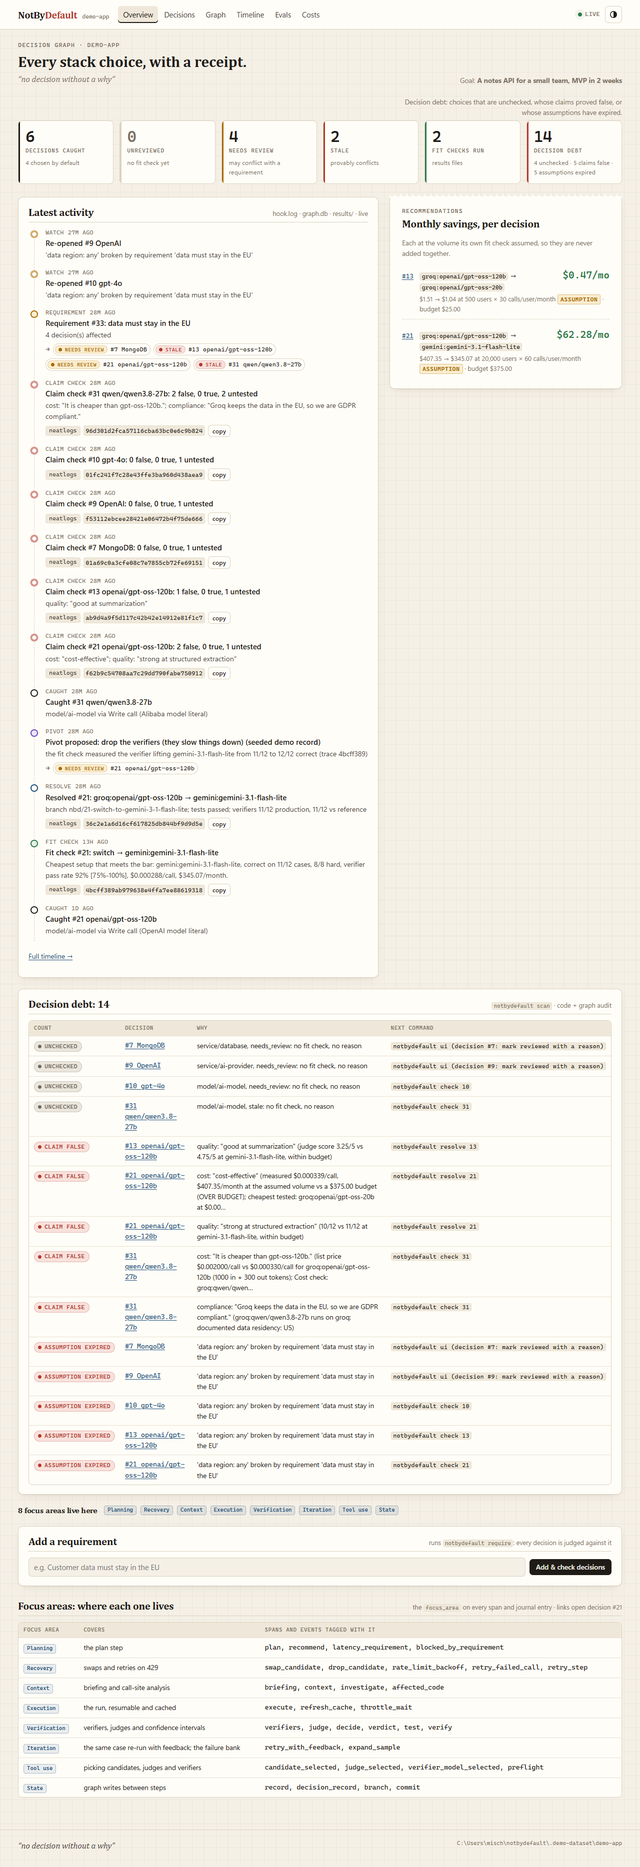
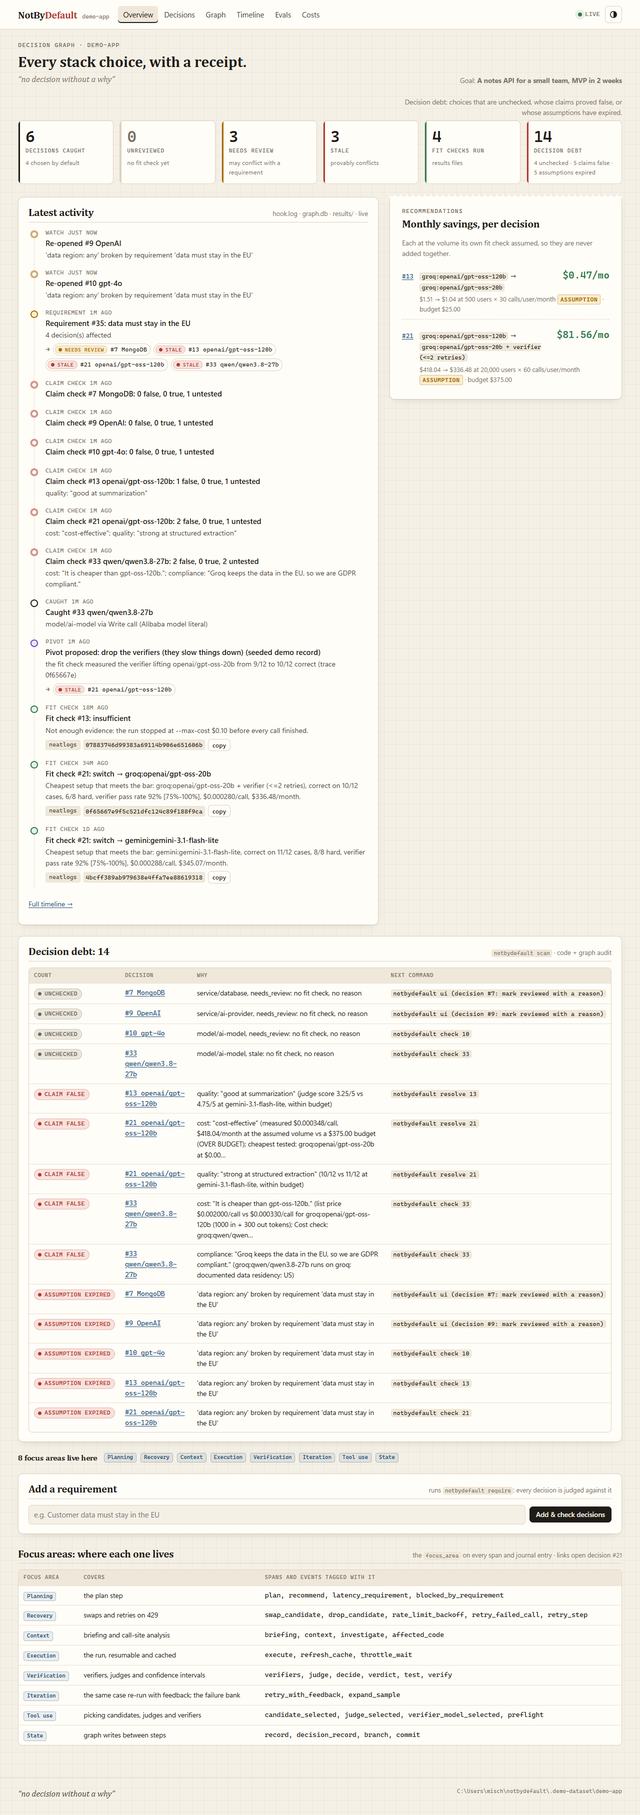
switch to the live-run numbers: #21 recommends gpt-oss-20b + verifier, $81.56/mo saved
The live `check 21` (trace 0f65667e9f5c521dfc124c89f188f9ca; 71 real requests across a Gemini
quota reset, $0.0461 at list price, free tiers) changed the verdict: today's gpt-oss-120b is
10/12 at $418.04/mo over the $375 budget; the cheapest setup meeting the bar is gpt-oss-20b +
verifier, 10/12 at $336.48/mo; best quality within budget is gemini-3.1-flash-lite, 11/12 at
$345.07/mo.

- README: example uses the live numbers and trace; resolve recommends the switch but stops (a
  verifier loop is not automated yet); a caveat on cost vs correctness between the two in-budget
  setups; under the EU requirement #21 goes stale (Groq documents US only) and MongoDB needs
  review; business case at $82/mo saved and "the same accuracy" (10/12), not "improving".
- business: costs.csv/costs.md regenerated from the live results (export-costs); plan.md's
  Starter line at $82/mo with an update note.
- ARCHITECTURE: a "Measured" subsection with the live run, and the demo dataset description
  matches it.
- Demo dataset: the seeded pivot's verifier evidence is read from #21's results file instead
  of hard-coded; the docstring describes the resolve stop and the new stale/needs-review split.
  Rebuilt offline; overview, #21 receipt and fit-check screenshots in light and dark.
- docs/demo.md and #21's decision record: the live run's trace and cost lines.
- tests: the net-saving test uses #21's live values.

Entire-Checkpoint: 01M4QJK1VX1PFQCFVNBJ0PV8YK

diff --git a/scripts/demo_dataset.py b/scripts/demo_dataset.py
@@ -7,15 +7,19 @@ touched), made a git repo on main, and then:
   0. watch      record each decision's assumptions (baseline)
   1. reasons    a SCRIPTED agent reason on #13, #21, MongoDB, OpenAI and gpt-4o (stored as
                 agent_reason, its source saying so: demo-app's own sessions recorded none)
-  2. resolve 21 dry run, then --apply on branch nbd/21-... (commit answered "yes", on the copy)
+  2. resolve 21 dry run, then --apply on branch nbd/21-... (commit answered "yes", on the copy).
+                When the verdict recommends a "+ verifier" setup, resolve stops at its
+                recommendation (adding a verifier loop to the code is not automated yet) and both
+                runs record that; #21 then stays on its current model
   3. pivot      the user types PIVOT_PROMPT. The real Pivot Check runs first; when it records
                 nothing (its prefilter or confirm call says no, or --offline has no cached
                 answer), ONE pivot is written from SEEDED_PIVOT, marked source=seeded
      + an agent turn: the PreToolUse hook catches a new model choice, its reason read from a
                 scripted transcript (scripts/demo_transcript.jsonl)
   4. claims     on #21 first, then the other reasoned decisions and the agent turn's
-  5. require    REQUIREMENT: Groq documents US only -> #13 stale; #21 now runs on Gemini, which
-                documents no region -> needs review
+  5. require    REQUIREMENT: Groq documents US only -> every decision still on Groq goes stale
+                (#13, and #21 unless resolve moved it); a decision whose region depends on the
+                deployment (MongoDB) -> needs review
   6. watch      re-evaluate the assumptions ('data region: any' broken on #21)
   7. scan       decision debt
   8. shots      regenerate docs/screenshots (light + dark) from the dataset; --no-shots skips it
@@ -268,6 +272,29 @@ def resolve(p: Path, did: int, client, apply: bool) -> None:
         print(f"[trace] {client.step}: {r.tracer.trace_id}")
 
 
+def verifier_lift(p: Path, decision: dict | None) -> str:
+    """What the verifier adds, from the decision's own results file: the recommended setup when
+    it relies on the verifier, else the model the verifier lifts most. "" when nothing to cite."""
+    rel = (decision or {}).get("data", {}).get("results")
+    if not rel or not (p / rel).is_file():
+        return ""
+    res = json.loads((p / rel).read_text(encoding="utf-8"))
+    st = {(s["model"], s["setup"]): s for s in res["stats"].values() if s.get("n_ref")}
+
+    def correct(s):
+        return round(s["correct_rate"] * s["n_ref"])
+    lifts = {m: correct(st[(m, "verified")]) - correct(st[(m, "alone")])
+             for m, setup in st if setup == "alone" and (m, "verified") in st}
+    model, setup = res["verdict"]["recommended"]
+    if setup != "verified":
+        model = max(lifts, key=lifts.get, default=None)
+    if model not in lifts or lifts[model] <= 0:
+        return ""
+    a, v = st[(model, "alone")], st[(model, "verified")]
+    return (f"{model.split(':', 1)[-1]} from {correct(a)}/{a['n_ref']} to {correct(v)}/{v['n_ref']} "
+            f"correct (trace {(res.get('trace_id') or '-')[:8]})")
+
+
 def pivot(p: Path, client) -> None:
     """The real Pivot Check on PIVOT_PROMPT; one seeded pivot when it records nothing."""
     from notbydefault.fit.tracing import make_tracer
@@ -296,10 +323,10 @@ def pivot(p: Path, client) -> None:
     with Graph.for_project(p) as g:
         verifiers = next((n for n in g.nodes("evidence")
                           if n["label"] == "Verifiers for decision #21"), None)
+        lift = verifier_lift(p, g.get_node(21))
         conflicts = [{"id": verifiers["id"], "type": "evidence", "label": verifiers["label"],
-                      "why": "the fit check measured the verifier lifting "
-                             "gemini-3.1-flash-lite from 11/12 to 12/12 correct (trace 4bcff389)"}
-                     ] if verifiers else []
+                      "why": f"the fit check measured the verifier lifting {lift}"}
+                     ] if verifiers and lift else []
         imp = {"change": SEEDED_PIVOT["change"], "conflicts": conflicts,
                "decisions": [{"id": 21}]}
         pid = record(g, PIVOT_PROMPT, imp, "demo-pivot", {"model": None})

diff --git a/tests/test_fit_units.py b/tests/test_fit_units.py
@@ -494,9 +494,9 @@ def test_cache_tolerates_concurrent_writes_of_the_same_key(tmp_path):
 
 def test_net_saving_line_from_the_unrounded_numbers():
     from notbydefault.fit.report import net_saving_line
-    # decision #21's demo fit check, as stored in its results file
-    assert net_saving_line(407.35499999999996, 345.075, 0.0375157) == (
-        "Net saving: $407.35/mo → $345.07/mo = $62.28/mo saved. Check cost once at "
-        "$0.0375 (list). First-month ROI: $62.24.")
+    # decision #21's live fit check (trace 0f65667e), as stored in its results file
+    assert net_saving_line(418.035, 336.47999999999996, 0.0220937) == (
+        "Net saving: $418.04/mo → $336.48/mo = $81.56/mo saved. Check cost once at "
+        "$0.0221 (list). First-month ROI: $81.53.")
     assert net_saving_line(300.0, 345.07, 0.04) == ""        # recommended costs more: no saving
     assert net_saving_line(None, 345.07, 0.04) == ""

diff --git a/demo-app/decisions/0002-ai-model-openai-gpt-oss-120b.md b/demo-app/decisions/0002-ai-model-openai-gpt-oss-120b.md
@@ -1,30 +1,34 @@
 # 0002. AI model for: Extracts structured action items—including task description, owner, resolved due date, and priority—from meeting notes.
 
-- Date: 2026-10-11
-- Status: Change recommended: gemini:gemini-3.1-flash-lite
+- Date: 2026-10-12
+- Status: Change recommended: groq:openai/gpt-oss-20b + verifier (<=2 retries)
 - Run on free tier; costs are list-price estimates.
 - Decision graph node: #21 (`openai/gpt-oss-120b` -> `groq:openai/gpt-oss-120b`)
 
 ## Context
 
-Decision #21 uses openai/gpt-oss-120b (groq:openai/gpt-oss-120b) to extracts structured action items—including task description, owner, resolved due date, and priority—from meeting notes. We ran 12 cases (12 hand-written, 6 of them re-run first from the failure bank) through 3 models, each alone and with a verifier, scored every answer against hand-written reference answers, and had 2 judge(s) from different families score them blind. Cheapest setup that meets the bar: gemini:gemini-3.1-flash-lite, correct on 11/12 cases, 8/8 hard, verifier pass rate 92% [75%-100%], $0.000288/call, $345.07/month. Best quality within the budget: gemini:gemini-3.1-flash-lite, correct on 11/12 cases, 8/8 hard, item F1 0.98, $0.000288/call, $345.07/month. At the assumed volume, today's setup costs about $407.35/month vs $345.07 for gemini:gemini-3.1-flash-lite (budget $375.00).
+Decision #21 uses openai/gpt-oss-120b (groq:openai/gpt-oss-120b) to extract structured action items—including task description, owner, resolved due date, and priority—from meeting notes. We ran 12 cases (12 hand-written, 7 of them re-run first from the failure bank) through 3 models, each alone and with a verifier, scored every answer against hand-written reference answers, and had 2 judge(s) from different families score them blind. Cheapest setup that meets the bar: groq:openai/gpt-oss-20b + verifier (<=2 retries), correct on 10/12 cases, 6/8 hard, verifier pass rate 92% [75%-100%], $0.000280/call, $336.48/month. Best quality within the budget: gemini:gemini-3.1-flash-lite, correct on 11/12 cases, 8/8 hard, item F1 0.98, $0.000288/call, $345.07/month. At the assumed volume, today's setup costs about $418.04/month vs $336.48 for groq:openai/gpt-oss-20b + verifier (<=2 retries) (budget $375.00).
 
 ## Setups tested
 
+Multi-candidate workload evaluation on your own data. Shared benchmarks are a prior, not proof.
+
 | setup | correct (95% CI) | hard | item F1 | verifier pass | judge gemini-3.8-flash | judge qwen3.8-27b | latency | cost/call incl. retries | monthly | fits budget? |
 |---|---|---|---|---|---|---|---|---|---|---|
-| groq:openai/gpt-oss-120b (current) | 10/12 [58%-100%] | 6/8 | 0.94 | 92% | 4.58 | 4.58 | 1.5s | $0.00034 | $407.35 | NO |
-| groq:openai/gpt-oss-120b + verifier (<=2 retries) | 11/12 [75%-100%] | 7/8 | 0.97 | 100% | 4.75 | 4.67 | 1.7s | $0.00038 (1.08 tries) | $458.71 | NO |
-| groq:openai/gpt-oss-20b | 7/12 [33%-83%] | 3/8 | 0.76 | 58% | 3.83 | 3.92 | 1.3s | $0.00019 | $225.13 | yes |
-| groq:openai/gpt-oss-20b + verifier (<=2 retries) | 10/12 [58%-100%] | 6/8 | 0.88 | 92% | 4.25 | 4.42 | 2.0s | $0.00032 (1.50 tries) | $385.37 | NO |
-| gemini:gemini-3.1-flash-lite | 11/12 [75%-100%] | 8/8 | 0.98 | 92% | 4.92 | 4.42 | 5.7s | $0.00029 | $345.07 | yes |
-| gemini:gemini-3.1-flash-lite + verifier (<=2 retries) | 12/12 [100%-100%] | 8/8 | 1.00 | 100% | 5.00 | 4.50 | 5.8s | $0.00033 (1.08 tries) | $391.43 | NO |
+| groq:openai/gpt-oss-120b (current) | 10/12 [58%-100%] | 6/8 | 0.94 | 92% | 4.83 | 4.83 | 1.5s | $0.00035 | $418.04 | NO |
+| groq:openai/gpt-oss-120b + verifier (<=2 retries) | 11/12 [75%-100%] | 7/8 | 0.97 | 100% | 4.92 | 4.92 | 1.6s | $0.00038 (1.08 tries) | $451.28 | NO |
+| groq:openai/gpt-oss-20b | 9/12 [50%-100%] | 5/8 | 0.79 | 75% | 4.00 | 4.08 | 1.1s | $0.00020 | $237.37 | yes |
+| groq:openai/gpt-oss-20b + verifier (<=2 retries) | 10/12 [58%-100%] | 6/8 | 0.88 | 92% | 4.25 | 4.33 | 1.5s | $0.00028 (1.33 tries) | $336.48 | yes |
+| gemini:gemini-3.1-flash-lite | 11/12 [75%-100%] | 8/8 | 0.98 | 92% | 4.92 | 4.83 | 13.8s | $0.00029 | $345.07 | yes |
+| gemini:gemini-3.1-flash-lite + verifier (<=2 retries) | 12/12 [100%-100%] | 8/8 | 1.00 | 100% | 5.00 | 4.92 | 15.0s | $0.00033 (1.08 tries) | $391.43 | NO |
 
 ## Verdict
 
-Cheapest setup that meets the bar: gemini:gemini-3.1-flash-lite, correct on 11/12 cases, 8/8 hard, verifier pass rate 92% [75%-100%], $0.000288/call, $345.07/month. Best quality within the budget: gemini:gemini-3.1-flash-lite, correct on 11/12 cases, 8/8 hard, item F1 0.98, $0.000288/call, $345.07/month.
+Cheapest setup that meets the bar: groq:openai/gpt-oss-20b + verifier (<=2 retries), correct on 10/12 cases, 6/8 hard, verifier pass rate 92% [75%-100%], $0.000280/call, $336.48/month. Best quality within the budget: gemini:gemini-3.1-flash-lite, correct on 11/12 cases, 8/8 hard, item F1 0.98, $0.000288/call, $345.07/month.
 
-1. Cheapest setup that meets the bar: `gemini:gemini-3.1-flash-lite`
+Net saving: $418.04/mo → $336.48/mo = $81.56/mo saved. Check cost once at $0.0221 (list). First-month ROI: $81.53.
+
+1. Cheapest setup that meets the bar: `groq:openai/gpt-oss-20b + verifier (<=2 retries)`
 2. Best quality within the budget: `gemini:gemini-3.1-flash-lite`
 
 Bar: correct on at least 9/12 cases (today's groq:openai/gpt-oss-120b: 10/12, one case of slack) with a verifier pass rate at most one case lower.
@@ -36,13 +40,11 @@ groq:openai/gpt-oss-120b: wrong on 2/12 (c03-several-owners, c07-mixed-language)
     c03-several-owners [hard]: Run the user interviews and write the summary: due None (expected '2026-10-21')
     c07-mixed-language [hard]: Revisar los contratos con legal: due '2026-10-19' (expected '2026-10-20')
     + verifier: retried 1 case(s) (c07-mixed-language); rescued 1 (c07-mixed-language); 1 wrong answer(s) passed every production check (c03-several-owners)
-groq:openai/gpt-oss-20b: wrong on 5/12 (c02-relative-dates, c03-several-owners, c04-cancelled-later, c06-long-notes, c09-date-changed-later)
-    c02-relative-dates [hard]: Review the security questionnaire: due '2026-10-15' (expected '2026-10-16') (+1 more)
-    c03-several-owners [hard]: Run the user interviews and write the summary: due '2026-10-19' (expected '2026-10-21')
+groq:openai/gpt-oss-20b: wrong on 3/12 (c02-relative-dates, c04-cancelled-later, c06-long-notes)
+    c02-relative-dates [hard]: output is not valid JSON with an action_items list
     c04-cancelled-later [hard]: Prepare the offsite agenda: due '2026-10-10' (expected '2026-10-12')
     c06-long-notes [hard]: output is not valid JSON with an action_items list
-    c09-date-changed-later [hard]: Send the vendor comparison: due '2026-10-24' (expected '2026-10-26')
-    + verifier: retried 5 case(s) (c02-relative-dates, c03-several-owners, c04-cancelled-later, c06-long-notes, c09-date-changed-later); rescued 3 (c03-several-owners, c06-long-notes, c09-date-changed-later); 0 wrong answer(s) passed every production check
+    + verifier: retried 3 case(s) (c02-relative-dates, c04-cancelled-later, c06-long-notes); rescued 1 (c06-long-notes); 0 wrong answer(s) passed every production check
 gemini:gemini-3.1-flash-lite: wrong on 1/12 (c10-priority-cues)
     c10-priority-cues: Patch the auth bypass: due '2026-10-21' (expected None)
     + verifier: retried 1 case(s) (c10-priority-cues); rescued 1 (c10-priority-cues); 0 wrong answer(s) passed every production check
@@ -50,9 +52,8 @@ gemini:gemini-3.1-flash-lite: wrong on 1/12 (c10-priority-cues)
 
 ## Rejected alternatives
 
-- `groq:openai/gpt-oss-120b + verifier (<=2 retries)`: over budget: $458.71/month vs $375.00
-- `groq:openai/gpt-oss-20b`: below the bar: correct on 7/12 cases, 3/8 hard vs 10/12 for groq:openai/gpt-oss-120b
-- `groq:openai/gpt-oss-20b + verifier (<=2 retries)`: over budget: $385.37/month vs $375.00
+- `groq:openai/gpt-oss-120b + verifier (<=2 retries)`: over budget: $451.28/month vs $375.00
+- `groq:openai/gpt-oss-20b`: below the bar: correct on 9/12 cases, 5/8 hard vs 10/12 for groq:openai/gpt-oss-120b
 - `gemini:gemini-3.1-flash-lite + verifier (<=2 retries)`: over budget: $391.43/month vs $375.00
 
 ## Caveats
@@ -65,11 +66,11 @@ gemini:gemini-3.1-flash-lite: wrong on 1/12 (c10-priority-cues)
 
 - Monthly cost = 20,000 expected users (from the graph) x 60 calls per user per month (ASSUMPTION) x measured average cost per call; monthly budget $375.00 (from the graph).
 - Run on free tier; costs are list-price estimates. Prices: groq: https://console.groq.com/docs/models (fetched 2026-10-10); gemini: https://ai.google.dev/gemini-api/docs/pricing (fetched 2026-10-10).
-- Test inputs: 12 hand-written, 6 of them re-run first from the failure bank (12 hand-written with reference answers, 8 marked hard); failure-bank cases always run first.
+- Test inputs: 12 hand-written, 7 of them re-run first from the failure bank (12 hand-written with reference answers, 8 marked hard); failure-bank cases always run first.
 - Verifier pass = all checks in .notbydefault/verifiers/21.py pass (json_matches_schema, owners_in_input, dates_in_input, dates_normalized, no_missing_items, no_extra_items). Verified setups retry up to 2x, feeding back only the failures production could see (reference checks are never used as hints); their cost/latency include those retries and any verifier calls.
-- Two blind judges from different families, gemini:gemini-3.8-flash and groq:qwen/qwen3.8-27b: on the same 36 outputs they gave identical scores 69% of the time and were within 1 point 97% of the time (mean gap 0.36; mean gemini-3.8-flash 4.19 vs qwen3.8-27b 4.17). Correctness against the references decides; judge scores only break ties.
+- Two blind judges from different families, gemini:gemini-3.8-flash and groq:qwen/qwen3.8-27b: on the same 36 outputs they gave identical scores 92% of the time and were within 1 point 100% of the time (mean gap 0.08; mean gemini-3.8-flash 4.39 vs qwen3.8-27b 4.42). Correctness against the references decides; judge scores only break ties.
 - Verifier trust: not measured yet - run `python -m notbydefault label 21` to hand-label 10 outputs.
-- Raw results: `.notbydefault/results/21-20261011T070521Z.json`
+- Raw results: `.notbydefault/results/21-20261012T070725Z.json`
 
 <!-- notbydefault:summary:begin (generated; edits inside are overwritten) -->
 
@@ -77,26 +78,28 @@ gemini:gemini-3.1-flash-lite: wrong on 1/12 (c10-priority-cues)
 
 - Decision graph node: #21 (model/ai-model: `openai/gpt-oss-120b`)
 - Status: Reviewed
-- Recommended: `gemini:gemini-3.1-flash-lite`
+- Recommended: `groq:openai/gpt-oss-20b + verifier (<=2 retries)`
 - Detected in agent session: `manual-action-items`
 
 ### Why
 
-Cheapest setup that meets the bar: gemini:gemini-3.1-flash-lite, correct on 11/12 cases, 8/8 hard, verifier pass rate 92% [75%-100%], $0.000288/call, $345.07/month. Best quality within the budget: gemini:gemini-3.1-flash-lite, correct on 11/12 cases, 8/8 hard, item F1 0.98, $0.000288/call, $345.07/month.
+Cheapest setup that meets the bar: groq:openai/gpt-oss-20b + verifier (<=2 retries), correct on 10/12 cases, 6/8 hard, verifier pass rate 92% [75%-100%], $0.000280/call, $336.48/month. Best quality within the budget: gemini:gemini-3.1-flash-lite, correct on 11/12 cases, 8/8 hard, item F1 0.98, $0.000288/call, $345.07/month.
 
 ### Evidence
 
 - #26 Fit test results 2026-10-10 (12 inputs): `.notbydefault/results/21-20261011T070521Z.json`
 - #27 Provider list prices fetched 2026-10-10: `groq: https://console.groq.com/docs/models (fetched 2026-10-10); gemini: https://ai.google.dev/gemini-api/docs/pricing (fetched 2026-10-10)`
 - #28 Verifiers for decision #21: `.notbydefault/verifiers/21.py`
-- Raw fit-test results: `.notbydefault/results/21-20261011T070521Z.json`
+- #30 Fit test results 2026-10-10 (12 inputs): `.notbydefault/results/21-20261012T070725Z.json`
+- #31 Provider list prices fetched 2026-10-10: `groq: https://console.groq.com/docs/models (fetched 2026-10-10); gemini: https://ai.google.dev/gemini-api/docs/pricing (fetched 2026-10-10)`
+- Raw fit-test results: `.notbydefault/results/21-20261012T070725Z.json`
 
 ### Rejected alternatives
 
-- `groq:openai/gpt-oss-120b + verifier (<=2 retries)`: over budget: $458.71/month vs $375.00
+- `groq:openai/gpt-oss-120b + verifier (<=2 retries)`: over budget: $451.28/month vs $375.00
 - `groq:openai/gpt-oss-20b + verifier (<=2 retries)`: over budget: $385.37/month vs $375.00
 - `gemini:gemini-3.1-flash-lite + verifier (<=2 retries)`: over budget: $391.43/month vs $375.00
-- `groq:openai/gpt-oss-20b`: below the bar: correct on 7/12 cases, 3/8 hard vs 10/12 for groq:openai/gpt-oss-120b
+- `groq:openai/gpt-oss-20b`: below the bar: correct on 9/12 cases, 5/8 hard vs 10/12 for groq:openai/gpt-oss-120b
 
 ### Caveats
 
@@ -113,5 +116,9 @@ Cheapest setup that meets the bar: gemini:gemini-3.1-flash-lite, correct on 11/1
 ### Status history
 
 - 2026-10-11T07:11:44+00:00: reviewed: fit check verdict: switch (Cheapest setup that meets the bar: gemini:gemini-3.1-flash-lite, correct on 11/12 cases, 8/8 hard, verifier pass rate 92% [75%-100%], $0.000288/call, $345.07/month. Best quality within the budget: gemini:gemini-3.1-flash-lite, correct on 11/12 cases, 8/8 hard, item F1 0.98, $0.000288/call, $345.07/month.)
+- 2026-10-12T07:11:28+00:00: reviewed: fit check verdict: switch (Cheapest setup that meets the bar: groq:openai/gpt-oss-20b + verifier (<=2 retries), correct on 10/12 cases, 6/8 hard, verifier pass rate 92% [75%-100%], $0.000280/call, $336.48/month. Best quality within the budget: gemini:gemini-3.1-flash-lite, correct on 11/12 cases, 8/8 hard, item F1 0.98, $0.000288/call, $345.07/month.)
 
 <!-- notbydefault:summary:end -->
+
+Live-run cost: $0.05 (list price of real requests, fresh cache; free tier, not billed)
+Live run: 71 requests on 5 models in 1 calendar day (quota reset between). Partial trace: 56a5915f9768ef65b7f21546bdfceb6a, final trace: 0f65667e9f5c521dfc124c89f188f9ca.

diff --git a/README.md b/README.md
@@ -8,11 +8,13 @@ AI coding agents pick models, databases and SDKs by default and give a reason. N
 
 ## Example
 
-An agent picked `openai/gpt-oss-120b` for an action-items endpoint because it was "cost-effective, strong at extraction, widely used". On the project's 12 cases it scored 10/12 at $407/mo, over the $375 budget. `gemini-3.1-flash-lite` scored 11/12 within budget. `notbydefault resolve 21` switched to it on a branch, with generated tests going from 0/12 to 12/12, and wrote the PR.
+An agent picked `openai/gpt-oss-120b` for an action-items endpoint because it was "cost-effective, strong at extraction, widely used". On the project's 12 cases it scored 10/12 at $418/mo, over the $375 budget. The cheapest setup that meets the bar is 10/12 at gpt-oss-20b + verifier, $336/mo: **$418→$336/mo, $81.56/mo saved**. `notbydefault resolve 21` recommends that switch and stops there: adding a verifier loop to the code isn't automated yet, so it changes nothing.
 
-When the requirement "data must stay in the EU" was added, that decision was flagged **needs_review** (no documented regional guarantee) and an older Groq decision **stale** (Groq documents US-only). Stale means a known fact breaks it; needs_review means a human should judge.
+Full comparison between candidates: gpt-oss-20b + verifier is the cheapest in-budget recommendation at $336/mo; gemini-3.1-flash-lite scored higher (11/12 vs 10/12) but $345/mo is still under budget — the ranking depends on whether you prioritize cost or correctness. See the fit-check table.
 
-Trace in neatlogs: `4bcff389ab979638e4ffa7ee88619318`
+When the requirement "data must stay in the EU" was added, #21 flipped to **stale** (Groq documents US-only; the chosen stack can't meet the new requirement), and so did an older Groq decision. MongoDB went to **needs_review**: where its data lives depends on how it's deployed. Stale means a known fact breaks it; needs_review means a human should judge.
+
+Live trace in neatlogs: `0f65667e9f5c521dfc124c89f188f9ca` (71 real provider requests across a quota reset, $0.0461 at list price on free tiers).
 
 ## How it works
 
@@ -66,7 +68,7 @@ On our own evals, decision detection improved from 0.81 to 1.00 recall over thre
 
 ## Business case
 
-NotByDefault reviews AI coding agents' technical choices against the project's own data and checks their stated reasoning, with proposed launch pricing of $49 per team per month. In our demo, one model-selection decision reduced projected inference costs by $62/month while improving benchmark accuracy — enough to cover the subscription if those savings persist. Our revised 12-month plan starts with $5,000 of founder cash, two pre-launch pilot customers at $49, 20% upgrade to $149 Growth in the third paid month, and a staged founder draw ($0 Nov–Apr, $2k/mo May–Oct) — resulting in a self-funded year with ~$5,354 ending cash and $2,789 MRR by October 2027 under disclosed assumptions.
+NotByDefault reviews AI coding agents' technical choices against the project's own data and checks their stated reasoning, with proposed launch pricing of $49 per team per month. In our demo, one model-selection decision reduced projected inference costs by $82/month at the same accuracy on the project's own cases (10/12) — enough to cover the subscription if those savings persist. Our revised 12-month plan starts with $5,000 of founder cash, two pre-launch pilot customers at $49, 20% upgrade to $149 Growth in the third paid month, and a staged founder draw ($0 Nov–Apr, $2k/mo May–Oct) — resulting in a self-funded year with ~$5,354 ending cash and $2,789 MRR by October 2027 under disclosed assumptions.
 
 ## Known limitations
 

diff --git a/business/costs.md b/business/costs.md
@@ -11,8 +11,8 @@ Monthly costs are at the volume each fit check assumed (users x calls per user, 
 | 7 | `MongoDB` (service/database, unreviewed) | not checked | - | - | - | - | - | - | - | - | 0 |
 | 9 | `OpenAI` (service/ai-provider, unreviewed) | not checked | - | - | - | - | - | - | - | - | 0 |
 | 10 | `gpt-4o` (model/ai-model, unreviewed) | not checked | - | - | - | - | - | - | - | - | 0 |
-| 13 | `openai/gpt-oss-120b` (model/ai-model, reviewed) | switch | `groq:openai/gpt-oss-120b` | $1.51 | `groq:openai/gpt-oss-20b` | $1.04 | $0.47 | 500 users x 30 calls | $25.00 | $0.0153 | 1 |
-| 21 | `openai/gpt-oss-120b` (model/ai-model, reviewed) | switch | `groq:openai/gpt-oss-120b` | $407.35 | `gemini:gemini-3.1-flash-lite` | $345.07 | $62.28 | 20,000 users x 60 calls | $375.00 | $0.0579 | 1 |
+| 13 | `openai/gpt-oss-120b` (model/ai-model, reviewed) | switch | `groq:openai/gpt-oss-120b` | $1.51 | `groq:openai/gpt-oss-20b` | $1.04 | $0.47 | 500 users x 30 calls | $25.00 | $0.0153 | 2 |
+| 21 | `openai/gpt-oss-120b` (model/ai-model, reviewed) | switch | `groq:openai/gpt-oss-120b` | $418.04 | `groq:openai/gpt-oss-20b + verifier (<=2 retries)` | $336.48 | $81.56 | 20,000 users x 60 calls | $375.00 | $0.0561 | 2 |
 
 Savings are not totalled: the fit checks assumed different volumes (#13: 500 users x 30 calls; #21: 20,000 users x 60 calls). Re-run the older checks at today's volume to compare them.
 
@@ -24,6 +24,8 @@ What each check cost us: the requests it actually made, at list price (cache hit
 |---|---|---|---|---|---|---|---|
 | `.notbydefault/results/13-20261010T170141Z.json` | #13 | 2026-10-10 17:01 | 59 | 4 | $0.0199 | $0.0153 | free (paid $0) |
 | `.notbydefault/results/21-20261011T070521Z.json` | #21 | 2026-10-11 07:05 | 31 | 42 | $0.0375 | $0.0579 | free (paid $0) |
+| `.notbydefault/results/21-20261012T070725Z.json` | #21 | 2026-10-12 07:07 | 15 | 56 | $0.0221 | $0.0561 | free (paid $0) |
+| `.notbydefault/results/13-20261012T072408Z.json` | #13 | 2026-10-12 07:24 | 6 | 53 | $0.0068 | $0.0124 | free (paid $0), stopped early |
 
 ## Unit economics per customer
 
@@ -31,10 +33,10 @@ What each check cost us: the requests it actually made, at list price (cache hit
 |---|---|---|
 | checks per project per month | 4 | **ASSUMPTION** (`--checks-per-month`) |
 | projects per customer | 1 | **ASSUMPTION** (`--projects-per-customer`) |
-| our cost per check | $0.0287 | measured: mean over 2 check(s) of the list price of requests made |
-| requests per check | 45 | measured |
-| our LLM cost per project per month | $0.1148 | checks per month x cost per check |
-| **our LLM cost per customer per month** | **$0.1148** | x projects per customer |
-| alternative: comparison calls only | $0.1463 | every model, verifier and judge call in the comparison at list price, cache hits included, setup calls excluded; neither a lower nor an upper bound |
+| our cost per check | $0.0216 | measured: mean over 4 check(s) of the list price of requests made |
+| requests per check | 27.75 | measured |
+| our LLM cost per project per month | $0.0863 | checks per month x cost per check |
+| **our LLM cost per customer per month** | **$0.0863** | x projects per customer |
+| alternative: comparison calls only | $0.1417 | every model, verifier and judge call in the comparison at list price, cache hits included, setup calls excluded; neither a lower nor an upper bound |
 
-2 of 2 check(s) ran on provider free tiers, so the amount actually paid was $0; the figures above are what the same requests cost at list price.
+4 of 4 check(s) ran on provider free tiers, so the amount actually paid was $0; the figures above are what the same requests cost at list price.

diff --git a/ARCHITECTURE.md b/ARCHITECTURE.md
@@ -189,12 +189,13 @@ Live mode polls a file-stat version every 2 s; the graph animates new nodes in.
 `python scripts/demo_dataset.py --out .demo-dataset/demo-app` resets that copy (gitignored) from
 demo-app (graph copied with SQLite's backup API, so the live one is never touched) and runs the
 whole loop on it: `watch` baseline; scripted, labelled agent reasons on #7, #9, #10, #13, #21;
-`resolve 21` dry run then `--apply` on its own branch; one pivot ("let's drop verifiers, they
+`resolve 21` dry run then `--apply` on its own branch (with the live verdict, gpt-oss-20b +
+verifier, both stop at the recommendation: adding a verifier loop is not automated yet); one pivot ("let's drop verifiers, they
 slow things down": the real Pivot Check runs, and when it records nothing a pivot marked
 `source=seeded` is written); an agent turn through the PreToolUse hook (reason from the scripted
 `scripts/demo_transcript.jsonl`); `claims` on every reasoned decision (#21: cost and quality
-false, popularity untested); the requirement "data must stay in the EU" (#21, now on Gemini, needs
-review; #13 on Groq goes stale); `watch`; `scan`; then `scripts/ui_screenshots.py` regenerates
+false, popularity untested); the requirement "data must stay in the EU" (#21 and #13, both on
+Groq, go stale; MongoDB needs review); `watch`; `scan`; then `scripts/ui_screenshots.py` regenerates
 docs/screenshots in light and dark (`--no-shots` skips it). Every step prints the trace id, the
 graph ids and the files it wrote. Model calls come from the copy's response cache (carried over
 unless `--fresh`); each call that would reach a provider is printed, and `--offline` skips them
@@ -215,6 +216,18 @@ and each attempt's trace id is kept in `<cache>/live-run.json`. When the check f
 decision record: the cost (list price of every response in the live cache, so a resumed run counts
 every day) and "Live run: X requests on Y models across Z calendar days ... Partial trace: ...,
 final trace: ...".
+
+### Measured (live run, 2026-10-12)
+
+`check 21` on demo-app, fresh cache, two attempts across a Gemini free-tier quota reset: 71 real
+provider requests on 5 models, $0.0461 at list price (free tiers, $0 billed). Partial trace
+`56a5915f9768ef65b7f21546bdfceb6a` (stopped by the daily limit, 56 requests), final trace
+`0f65667e9f5c521dfc124c89f188f9ca` (15 requests, 56 from the cache). Verdict: switch. Today's
+`groq:openai/gpt-oss-120b` scores 10/12 (6/8 hard) at $418.04/month, over the $375 budget; the
+cheapest setup that meets the bar is `groq:openai/gpt-oss-20b` + verifier, 10/12 (6/8 hard) at
+$336.48/month, saving $81.56/month; best quality within the budget is
+`gemini:gemini-3.1-flash-lite`, 11/12 (8/8 hard) at $345.07/month. Results:
+`demo-app/.notbydefault/results/21-20261012T070725Z.json`.
 
 ## Tests
 

diff --git a/business/plan.md b/business/plan.md
@@ -9,7 +9,9 @@ Generated with cfo.ai's Ari agent on 2026-10-12 using business/costs.csv.
 | Starter | $49/team/mo | Unlimited collaborators, 4 bounded fit-checks/mo |
 | Growth | $149/team/mo | 20 fit-checks/mo, ongoing decision monitoring |
 
-Priced per team because the value is reviewing decisions, not counting engineers. One persistent $62/mo saved decision covers Starter with $13 left over.
+Priced per team because the value is reviewing decisions, not counting engineers. One persistent $82/mo saved decision covers Starter with $33 left over.
+
+Updated 2026-10-12: live run on #21 produced $82/mo saved, not $62. The plan's conclusions are unchanged — more saving per decision strengthens the ROI.
 
 ## Unit economics
 

diff --git a/docs/demo.md b/docs/demo.md
@@ -1,0 +1,3 @@
+# Demo
+
+live-run trace: 0f65667e9f5c521dfc124c89f188f9ca ($0.0461)
